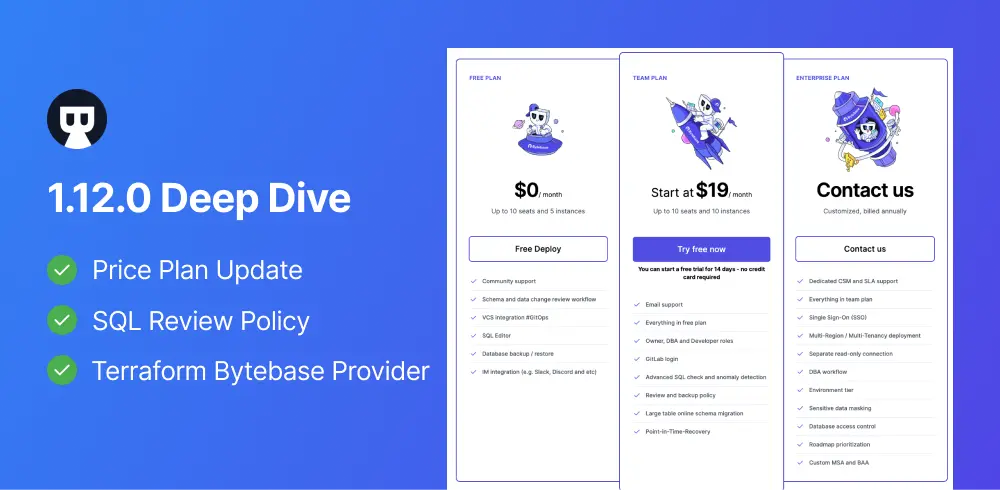
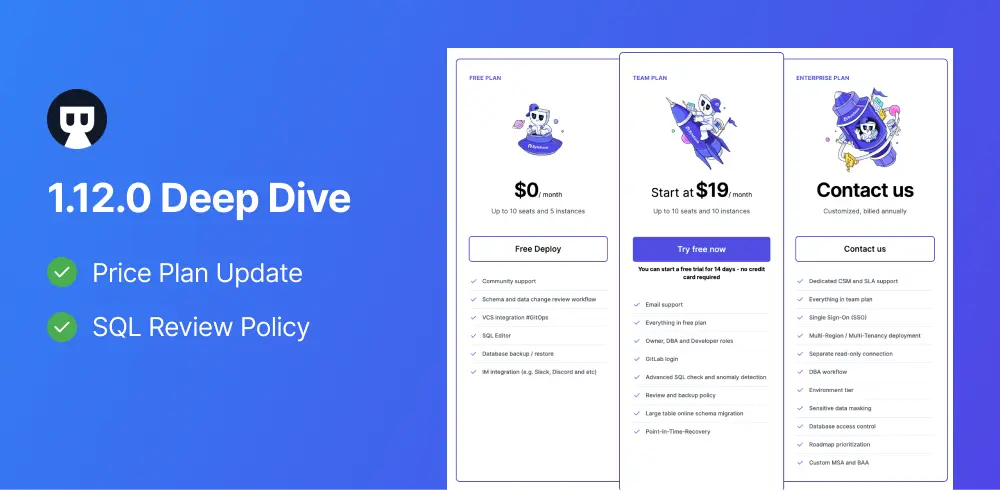
docs: fix

Changed region(s): [[0.031, 0.6122, 0.434, 0.7959], [0.031, 0.5204, 0.31, 0.5816]]

diff --git a/content/blog/1-12-0-new-features.md b/content/blog/1-12-0-new-features.md
@@ -4,7 +4,7 @@ author: Tianzhou
 published_at: 2023/02/07 13:21:21
 feature_image: /static/blog/1-12-0-new-features/1-12-0-banner.webp
 tags: Explanation
-description: First release of the Year of Rabbit 🐰 is out, the version number was upgraded from 1.11.0 to 1.12.0. - SQL Review Policy - Terraform Bytebase Provider - Price Plan Update.
+description: First release of the Year of Rabbit 🐰 is out, the version number was upgraded from 1.11.0 to 1.12.0. - SQL Review Policy - Price Plan Update.
 ---
 
 First release of the Year of Rabbit 🐰 is out, the version number was upgraded from 1.11.0 to 1.12.0. The release cycle was 3 weeks because of the Chinese New Year. There were 264 code commits, a bit more than the normal bi-weekly release. Let's see what new capabilities are included 👇
@@ -12,21 +12,21 @@ First release of the Year of Rabbit 🐰 is out, the version number was upgraded
 
 ## SQL Review Policy
 
-The first is the enhancement of SQL Review audit rules.
+The first is the enhancement of SQL Review policies.
 
 We have nearly 50 rules on MySQL and TiDB to detect various non-compliant SQL statements, and there are goInception-based tools in the MySQL industry with similar capabilities.
 
 But PostgreSQL has been blank because of the lack of Parser support. To fill this gap, Bytebase developed PG Parser and added 21 review rules based on Parser's capability. This brings the total number of PG SQL Review rules to 37.
 
-At first glance, it looks like it is still a bit far from MySQL. In fact, this is not the case, because there are some strange syntaxes in MySQL, such as Insert / Update statements can add ORDER BY, which needs to be removed at the rule level. PG itself does not allow such syntax, so no additional rules are needed.
+At first glance, it looks like it is still a bit far from MySQL. In fact, this is not the case, because there are some strange syntaxes in MySQL, you can add ORDER BY to Insert / Update statements, which needs to be removed at the rule level. PG itself does not allow such syntax, so no additional rules are needed.
 
 In addition to the rule engine enhancements, we have integrated SQL audit rules in the SQL editor to return violated rules in real time.
 
 So far, the function of SQL Review rules, which lasted for nearly a year, has also come to an end. From the beginning we built a SQL Review Guide, to the implementation of MySQL-based review rules in the product based on the existing TiDB Parser, to the implementation of PG review rules in PG Parser, to the integration of these rules into the product, we have:
 
 1. The first-tier MySQL / TiDB SQL auditing capability in the market.
-2. The unique PostgreSQL auditing capability in the market.
-3. The unique product-level integration capabilities in the market, whether it's integration with Bytebase itself, or integration with GitHub Action, GitHub App, GitLab CI and API.
+2. The one and only PostgreSQL reviewing capability on the market.
+3. The unique product-level integration capabilities on the market, whether it's integration with Bytebase itself, or integration with GitHub Action, GitHub App, GitLab CI and API.
 
 Of course, this is only the first phase of SQL Review, we will optimize the configuration and experience of Bytebase SQL Review rules, and then we will move on to the second phase, the development of indexing suggestions with database statistics.
 
@@ -39,19 +39,6 @@ Of course, this is only the first phase of SQL Review, we will optimize the conf
 ![github-sql-review](/static/blog/1-12-0-new-features/github-sql-review.webp)
 
 ![gitlab-merge-request](/static/blog/1-12-0-new-features/gitlab-merge-request.webp)
-
-## Terraform Bytebase Provider
-
-The second is to continue the enhancement of Terraform Bytebase Provider. Previously, the environment and database instance configuration, as well as the database user permission configuration have been introduced. This time we have added policy configurations as well, which include
-
-1. Approval policy
-2. Backup policy
-3. Sensitive field setting policy
-4. Database access policy
-5. The aforementioned database audit rules, 49 for MySQL, 45 for TiDB and 37 for PG
-
-Take a look at the resource list of Terraform Bytebase Provider, it's kind of primitive.
-![terraform-bytebase-provider](/static/blog/1-12-0-new-features/terraform-bytebase-provider.webp)
 
 ## Price Plan Update
 
